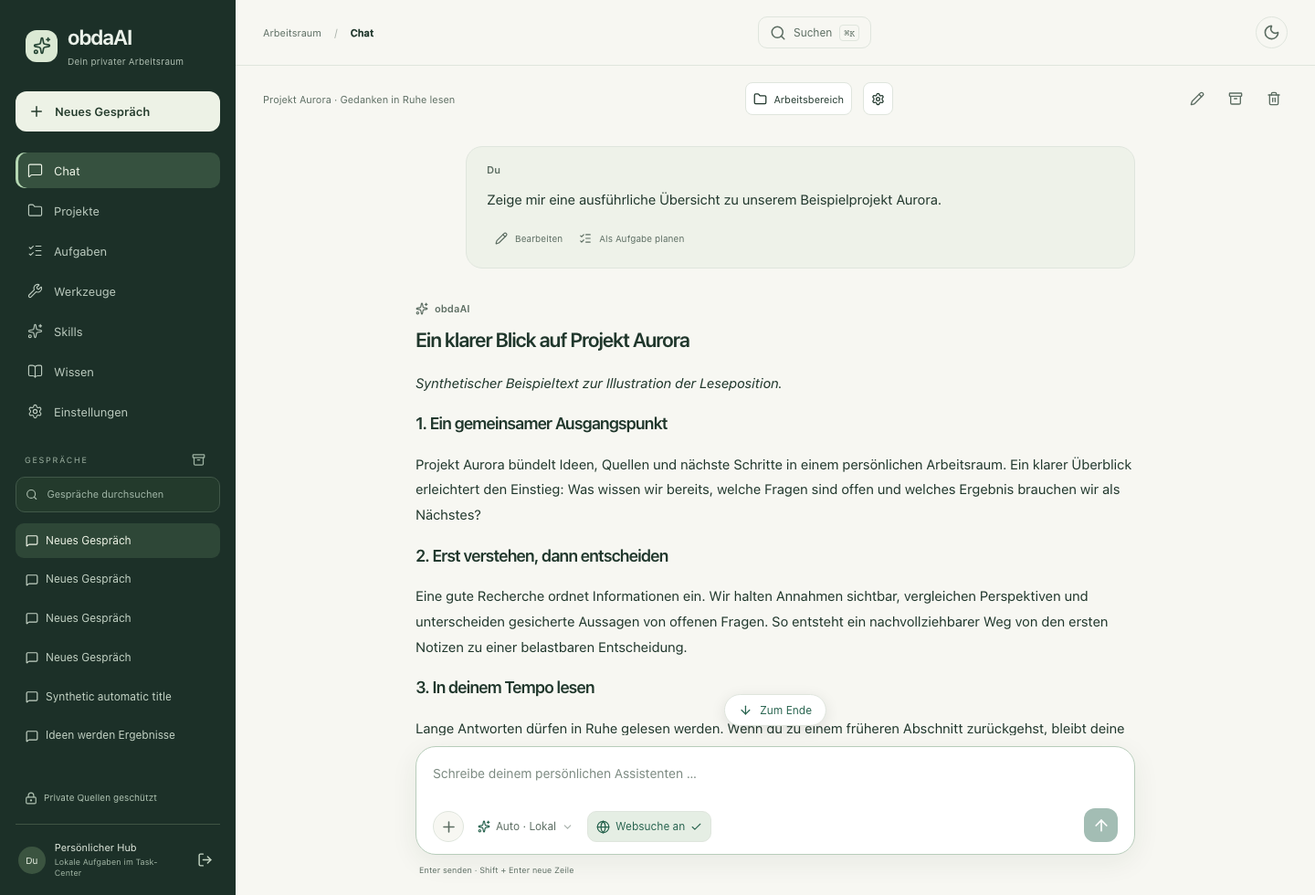
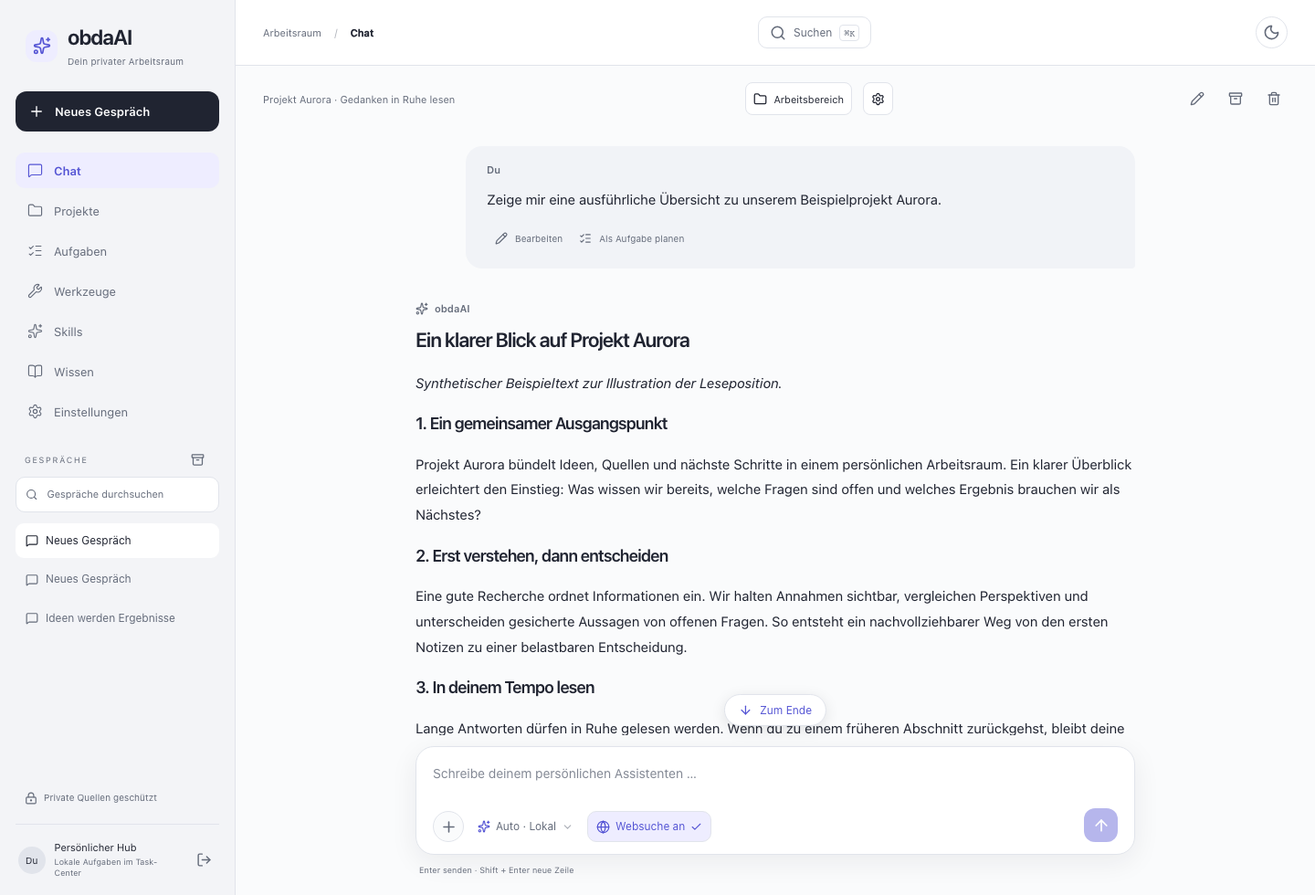
Update project showcase from 52f2b31750f0

Changed region(s): [[0.0, 0.0, 0.1875, 1.0], [0.4375, 0.8878, 0.5625, 0.949], [0.8125, 0.8878, 0.875, 0.949]]

diff --git a/styles.css b/styles.css
@@ -1,9 +1,9 @@
-:root{--ink:#182d2b;--muted:#65726b;--paper:#f8f7f2;--line:#dcded5;--accent:#ec9b79;--sage:#e5eae0;--green:#3e6453;--radius:20px}*{box-sizing:border-box}html{scroll-behavior:smooth;scroll-padding-top:95px}body{margin:0;background:var(--paper);color:var(--ink);font-family:Inter,ui-sans-serif,-apple-system,BlinkMacSystemFont,"Segoe UI",sans-serif;font-size:16px;line-height:1.6}button,input{font:inherit}button,a,input{ -webkit-tap-highlight-color:transparent}a{color:inherit;text-decoration:none}button{cursor:pointer}a:focus-visible,button:focus-visible,input:focus-visible{outline:3px solid #bd5739;outline-offset:5px}img{max-width:100%;height:auto;display:block}h1,h2,h3,p{margin:0}h1,h2,h3{line-height:1.1;letter-spacing:-.055em;font-weight:550}h1{font-size:clamp(58px,6.2vw,90px);line-height:1.01}h2{font-size:clamp(38px,4vw,58px)}h3{font-size:26px;letter-spacing:-.035em}em{font-family:Georgia,"Times New Roman",serif;font-weight:400;color:var(--green)}.wrap{max-width:1280px;margin:auto;padding-left:48px;padding-right:48px}.skip{position:absolute;top:-100px;left:15px;background:var(--ink);color:white;padding:12px;z-index:100}.skip:focus{top:10px}.header{height:90px;display:flex;align-items:center;justify-content:space-between;max-width:1380px;margin:auto;padding:0 48px;border-bottom:1px solid var(--line)}.brand{font-size:28px;font-weight:700;letter-spacing:-1.2px;display:flex;align-items:center;gap:10px;line-height:1}.brand-ai{font-weight:400;margin-left:-10px}.brand-mark{position:relative;width:32px;height:32px;display:inline-flex;align-items:center;font-size:41px;font-weight:650;margin-right:2px}.brand-mark span{font-size:22px;position:absolute;right:-4px;top:-5px;color:#c87755}.header nav{display:flex;gap:32px;font-size:14px}.header nav a:hover{color:#a54f35}.header-cta{border:1px solid var(--line);border-radius:99px;padding:10px 18px;font-size:13px}.header-cta span{margin-left:12px}.hero{display:grid;grid-template-columns:1fr 1.04fr;gap:25px;padding-top:83px;padding-bottom:90px;overflow:hidden}.eyebrow{font-size:10px;letter-spacing:2px;font-weight:750;margin-bottom:26px;display:flex;align-items:center;gap:9px}.status-dot{width:7px;height:7px;border-radius:50%;background:#64876a;display:inline-block}.hero-description{font-size:17px;line-height:1.7;max-width:420px;margin-top:27px;color:#56655c}.hero-actions{display:flex;align-items:center;gap:25px;margin-top:30px}.button{display:inline-flex;align-items:center;justify-content:center;gap:30px;border-radius:99px;padding:14px 22px;font-size:13px;font-weight:600}.primary{background:var(--ink);color:#fff}.primary:hover{background:#35554b}.text-link{border:0;background:transparent;padding:0;font-size:13px;color:var(--ink);text-align:left}.text-link span{margin-left:14px}.hero-note{font-size:11px;display:flex;align-items:center;gap:10px;margin-top:24px;color:var(--muted)}.tiny-icon{font-size:21px}.hero-visual{position:relative;display:flex;align-items:center;justify-content:center;min-width:0;padding:28px 0 36px}.orbit{position:absolute;border-radius:50%;background:#e5e9de;z-index:-1}.orbit-one{width:530px;height:530px;left:5px;top:15px}.orbit-two{width:310px;height:310px;right:-100px;bottom:10px;background:#f2decf}.visual-label{position:absolute;top:2px;left:30px;display:flex;align-items:center;gap:8px;font-size:9px;letter-spacing:1.4px}.app-frame{border:1px solid #d4d9cf;background:white;overflow:hidden;border-radius:12px;box-shadow:0 25px 70px -25px #1b342f30}.window-bar{display:flex;align-items:center;gap:5px;height:30px;background:#f1f3ed;padding:0 12px;border-bottom:1px solid #e1e5db}.window-bar>span{width:5px;height:5px;background:#c0c9ba;border-radius:50%}.window-bar p{font-size:8px;color:#6b7767;text-align:center;flex:1}.window-bar .window-local{width:auto;height:auto;border-radius:3px;font-size:6px;padding:1px 4px;background:#dce7d7;color:#526f4b}.hero-frame{width:650px;max-width:none;flex:none;transform:perspective(1200px) rotateY(-7deg) rotateZ(1deg);margin-left:110px}.hero-frame img{width:650px}.floating-card{position:absolute;bottom:50px;left:4px;display:flex;align-items:center;gap:14px;background:var(--paper);border:1px solid #d6ded0;border-radius:14px;box-shadow:0 16px 32px #1b342f12;padding:17px 22px}.floating-symbol{background:#f2d6c6;border-radius:50%;width:38px;height:38px;display:grid;place-items:center;font-size:23px}.floating-card strong{font-size:13px;display:block}.floating-card div>span{font-size:11px;color:var(--muted);display:block}.visual-caption{position:absolute;bottom:13px;left:50px;font-size:9px;color:var(--muted)}.capability-strip{border-block:1px solid var(--line)}.capability-strip .wrap{min-height:78px;display:flex;align-items:center;gap:25px;font-size:10px;letter-spacing:1.5px;font-weight:650}.strip-plus{color:#98a392;font-size:17px}.strip-end{margin-left:auto;color:var(--muted);font-weight:400;letter-spacing:0;font-size:12px}.intro,.features-section,.status-section{padding-top:100px;padding-bottom:100px}.section-heading{display:flex;justify-content:space-between;gap:50px;align-items:flex-end;margin-bottom:48px}.section-heading>p{max-width:380px;color:var(--muted);font-size:14px;line-height:1.8}.journey{display:grid;grid-template-columns:repeat(3,1fr);gap:20px}.journey article{background:#eef0e8;border:1px solid #e0e4d8;border-radius:var(--radius);padding:28px;display:flex;flex-direction:column;align-items:flex-start}.step{font-size:9px;letter-spacing:1.4px;color:var(--muted)}.journey-icon{font-size:35px;margin:24px 0 18px;color:var(--green)}.journey h3{font-size:23px;max-width:210px}.journey p{font-size:13px;color:var(--muted);margin:16px 0 24px;flex:1}.journey a{font-size:11px;border-top:1px solid #d5dbcf;padding-top:17px;width:100%;display:flex;justify-content:space-between}.gallery-section{background:#e9ede3;border-block:1px solid #dce1d5;padding:85px 0}.gallery-tabs{display:flex;gap:7px;flex-wrap:wrap;margin-bottom:32px}.gallery-tabs button,.filter-tabs button{border:1px solid #d3dacd;background:transparent;color:var(--ink);border-radius:99px;padding:9px 17px;font-size:12px;transition:background .15s}.gallery-tabs button[aria-selected=true],.filter-tabs button[aria-pressed=true]{background:var(--ink);border-color:var(--ink);color:white}.gallery-body{display:grid;grid-template-columns:250px 1fr;gap:40px;align-items:center}.gallery-copy h3{font-size:33px;margin-top:17px}.gallery-copy>p{color:var(--muted);font-size:13px;margin:20px 0 26px}.small-counter{font-size:10px;letter-spacing:2px;color:#7a8978}.screenshot-note{font-size:9px;color:var(--muted);margin-top:20px}.gallery-frame{border-radius:12px}.feature-controls{display:flex;align-items:flex-start;gap:20px;justify-content:space-between}.filter-tabs{display:flex;gap:7px;flex-wrap:wrap;max-width:810px}.filter-tabs button{font-size:11px;padding:8px 13px}.search-box{display:flex;align-items:center;gap:8px;border-bottom:1px solid #adb9a8;min-width:180px;padding:5px 0}.search-box input{width:155px;background:transparent;border:0;padding:4px 0;font-size:12px;color:var(--ink)}.legend{display:flex;gap:20px;flex-wrap:wrap;margin-top:30px;font-size:10px;color:var(--muted)}.legend span{display:flex;align-items:center;gap:6px}.legend i{height:6px;width:6px;border-radius:50%}.legend-live{background:#52735c}.legend-implemented{background:#7b8aa3}.legend-limited{background:#c38b56}.feature-count{font-size:10px;color:var(--muted);margin-top:12px}.feature-group{margin-top:40px}.group-heading{display:flex;align-items:center;gap:15px;margin-bottom:18px}.group-symbol{font-size:22px;background:#e6eade;width:40px;height:40px;display:grid;place-items:center;border-radius:10px}.group-heading h3{font-size:24px}.group-heading p{font-size:12px;color:var(--muted);margin-top:6px}.feature-grid{display:grid;grid-template-columns:repeat(3,1fr);gap:12px}.feature-card{padding:23px;border:1px solid var(--line);border-radius:14px;background:#fffefa}.feature-card h4{font-size:15px;font-weight:600;line-height:1.4;margin:14px 0 10px;letter-spacing:-.3px}.feature-card p{font-size:12px;color:var(--muted);line-height:1.8}.badge{font-size:8px;letter-spacing:.5px;display:inline-flex;align-items:center;gap:5px}.badge:before{content:"";width:5px;height:5px;border-radius:50%;background:currentColor}.badge.live{color:#52735c}.badge.implemented{color:#637997}.badge.limited{color:#996836}.footnote{font-size:11px;color:var(--muted);margin-top:35px;padding-top:20px;border-top:1px solid var(--line)}.empty{padding:35px 0;font-size:15px;color:var(--muted)}.privacy-section{background:var(--ink);color:#e8ebdf;padding:90px 0}.privacy-layout{display:grid;grid-template-columns:1fr 1fr;gap:100px;align-items:center}.privacy-section .eyebrow{color:#b8c8b6}.privacy-section h2{font-size:56px}.privacy-layout>div>p:not(.eyebrow){font-size:14px;color:#b8c8b6;max-width:420px;margin:24px 0}.light{background:#e7ecde;color:var(--ink);margin-top:4px}.principles article{display:flex;gap:25px;border-top:1px solid #456055;padding:26px 0}.principles article>span{font-size:11px;color:#9bb09c;padding-top:3px}.principles h3{font-size:22px;letter-spacing:-.5px}.principles p{font-size:12px;color:#b8c8b6;margin-top:12px}.stats{display:grid;grid-template-columns:repeat(4,1fr);border-block:1px solid var(--line);padding:28px 0;margin-bottom:42px}.stats article{padding-left:25px;border-left:1px solid var(--line)}.stats article:first-child{padding-left:0;border:0}.stats strong{font-size:43px;font-weight:500;line-height:1;letter-spacing:-2px;display:block}.stats span{font-size:10px;color:var(--muted);display:block;margin-top:12px}.status-grid{display:grid;grid-template-columns:1fr 1fr;gap:55px}.release-card{background:#ecefe6;border:1px solid #dde3d5;padding:32px;border-radius:var(--radius)}.pill{font-size:8px;letter-spacing:1px;color:var(--green)}.release-card h3{font-size:37px;margin:21px 0}.release-card p{font-size:13px;color:var(--muted)}dl{font-size:11px;margin:25px 0}dl>div{display:flex;justify-content:space-between;gap:10px;padding:9px 0;border-top:1px solid #d4ddca}dd{margin:0;font-weight:600}dt{color:var(--muted)}.release-card>a{font-size:12px}.release-card small{display:block;font-size:9px;color:var(--muted);margin-top:17px}.roadmap>h3{font-size:26px;margin:10px 0 25px}.roadmap-item{display:flex;gap:16px;padding:16px 0;border-top:1px solid var(--line)}.roadmap-item>span{font-size:10px;color:#9b8c77;margin-top:4px}.roadmap-item h4{font-size:14px;font-weight:600;line-height:1.4;margin:0 0 7px}.roadmap-item p{font-size:12px;line-height:1.7;color:var(--muted)}.maintenance-note{display:flex;gap:17px;align-items:center;margin-top:35px;border:1px solid var(--line);border-radius:12px;padding:18px 23px}.maintenance-note strong{font-size:12px}.maintenance-note p{font-size:11px;color:var(--muted);margin-top:3px}.closing{text-align:center;padding-top:10px;padding-bottom:80px}.closing-mark{font-size:48px;color:#b56e4d}.closing h2{font-size:47px;margin:15px 0 28px}footer{display:flex;align-items:center;justify-content:space-between;gap:20px;border-top:1px solid var(--line);padding-top:25px!important;padding-bottom:25px!important}footer .brand{font-size:23px}footer p,footer>div{font-size:9px;color:var(--muted)}footer>div{display:flex;flex-direction:column;text-align:right}#image-dialog{width:min(96vw,1500px);max-width:none;border:1px solid var(--line);border-radius:18px;padding:18px;background:var(--paper)}#image-dialog::backdrop{background:#0c211cd9}#image-dialog>button{border:0;border-radius:30px;padding:8px 15px;background:var(--ink);color:white;display:block;margin-left:auto;margin-bottom:15px;font-size:12px}#image-dialog p{font-size:10px;color:var(--muted);text-align:center;margin-top:12px}
+:root{--ink:#20232e;--muted:#686d7f;--paper:#fafbfe;--line:#e0e3ec;--accent:#5454d4;--accent-soft:#ededfd;--surface:#f0f2f7;--radius:20px}*{box-sizing:border-box}html{scroll-behavior:smooth;scroll-padding-top:95px}body{margin:0;background:var(--paper);color:var(--ink);font-family:Inter,ui-sans-serif,-apple-system,BlinkMacSystemFont,"Segoe UI",sans-serif;font-size:16px;line-height:1.6}button,input{font:inherit}button,a,input{ -webkit-tap-highlight-color:transparent}a{color:inherit;text-decoration:none}button{cursor:pointer}a:focus-visible,button:focus-visible,input:focus-visible{outline:3px solid var(--accent);outline-offset:5px}img{max-width:100%;height:auto;display:block}h1,h2,h3,p{margin:0}h1,h2,h3{line-height:1.1;letter-spacing:-.055em;font-weight:650}h1{font-size:clamp(58px,6.2vw,90px);line-height:1.01}h2{font-size:clamp(38px,4vw,58px)}h3{font-size:26px;letter-spacing:-.035em}em{font-family:inherit;font-style:normal;font-weight:650;color:var(--accent)}.wrap{max-width:1280px;margin:auto;padding-left:48px;padding-right:48px}.skip{position:absolute;top:-100px;left:15px;background:var(--ink);color:white;padding:12px;z-index:100}.skip:focus{top:10px}.header{height:90px;display:flex;align-items:center;justify-content:space-between;max-width:1380px;margin:auto;padding:0 48px;border-bottom:1px solid var(--line)}.brand{font-size:28px;font-weight:700;letter-spacing:-1.2px;display:flex;align-items:center;gap:10px;line-height:1}.brand-ai{font-weight:400;margin-left:-10px}.brand-mark{position:relative;width:32px;height:32px;display:inline-flex;align-items:center;font-size:41px;font-weight:650;margin-right:2px}.brand-mark span{font-size:22px;position:absolute;right:-4px;top:-5px;color:var(--accent)}.header nav{display:flex;gap:32px;font-size:14px}.header nav a:hover{color:#4141b5}.header-cta{border:1px solid var(--line);border-radius:99px;padding:10px 18px;font-size:13px}.header-cta span{margin-left:12px}.hero{display:grid;grid-template-columns:1fr 1.04fr;gap:25px;padding-top:83px;padding-bottom:90px;overflow:hidden}.eyebrow{font-size:10px;letter-spacing:2px;font-weight:750;margin-bottom:26px;display:flex;align-items:center;gap:9px}.status-dot{width:7px;height:7px;border-radius:50%;background:#64876a;display:inline-block}.hero-description{font-size:17px;line-height:1.7;max-width:420px;margin-top:27px;color:var(--muted)}.hero-actions{display:flex;align-items:center;gap:25px;margin-top:30px}.button{display:inline-flex;align-items:center;justify-content:center;gap:30px;border-radius:99px;padding:14px 22px;font-size:13px;font-weight:600}.primary{background:var(--ink);color:#fff}.primary:hover{background:#393c4b}.text-link{border:0;background:transparent;padding:0;font-size:13px;color:var(--ink);text-align:left}.text-link span{margin-left:14px}.hero-note{font-size:11px;display:flex;align-items:center;gap:10px;margin-top:24px;color:var(--muted)}.tiny-icon{font-size:21px}.hero-visual{position:relative;display:flex;align-items:center;justify-content:center;min-width:0;padding:28px 0 36px}.orbit{position:absolute;border-radius:50%;background:#ededfd;z-index:-1}.orbit-one{width:530px;height:530px;left:5px;top:15px}.orbit-two{width:310px;height:310px;right:-100px;bottom:10px;background:#f0f2f8}.visual-label{position:absolute;top:2px;left:30px;display:flex;align-items:center;gap:8px;font-size:9px;letter-spacing:1.4px}.app-frame{border:1px solid var(--line);background:white;overflow:hidden;border-radius:12px;box-shadow:0 25px 70px -25px #24283b26}.window-bar{display:flex;align-items:center;gap:5px;height:30px;background:#f2f4f8;padding:0 12px;border-bottom:1px solid var(--line)}.window-bar>span{width:5px;height:5px;background:#c5cad7;border-radius:50%}.window-bar p{font-size:8px;color:var(--muted);text-align:center;flex:1}.window-bar .window-local{width:auto;height:auto;border-radius:3px;font-size:6px;padding:1px 4px;background:var(--accent-soft);color:var(--accent)}.hero-frame{width:650px;max-width:none;flex:none;transform:perspective(1200px) rotateY(-7deg) rotateZ(1deg);margin-left:110px}.hero-frame img{width:650px}.floating-card{position:absolute;bottom:50px;left:4px;display:flex;align-items:center;gap:14px;background:var(--paper);border:1px solid var(--line);border-radius:14px;box-shadow:0 16px 32px #24283b12;padding:17px 22px}.floating-symbol{background:var(--accent-soft);border-radius:50%;width:38px;height:38px;display:grid;place-items:center;font-size:23px}.floating-card strong{font-size:13px;display:block}.floating-card div>span{font-size:11px;color:var(--muted);display:block}.visual-caption{position:absolute;bottom:13px;left:50px;font-size:9px;color:var(--muted)}.capability-strip{border-block:1px solid var(--line)}.capability-strip .wrap{min-height:78px;display:flex;align-items:center;gap:25px;font-size:10px;letter-spacing:1.5px;font-weight:650}.strip-plus{color:#989fb2;font-size:17px}.strip-end{margin-left:auto;color:var(--muted);font-weight:400;letter-spacing:0;font-size:12px}.intro,.features-section,.status-section{padding-top:100px;padding-bottom:100px}.section-heading{display:flex;justify-content:space-between;gap:50px;align-items:flex-end;margin-bottom:48px}.section-heading>p{max-width:380px;color:var(--muted);font-size:14px;line-height:1.8}.journey{display:grid;grid-template-columns:repeat(3,1fr);gap:20px}.journey article{background:var(--surface);border:1px solid var(--line);border-radius:var(--radius);padding:28px;display:flex;flex-direction:column;align-items:flex-start}.step{font-size:9px;letter-spacing:1.4px;color:var(--muted)}.journey-icon{font-size:35px;margin:24px 0 18px;color:var(--accent)}.journey h3{font-size:23px;max-width:210px}.journey p{font-size:13px;color:var(--muted);margin:16px 0 24px;flex:1}.journey a{font-size:11px;border-top:1px solid var(--line);padding-top:17px;width:100%;display:flex;justify-content:space-between}.gallery-section{background:#f0f2f7;border-block:1px solid var(--line);padding:85px 0}.gallery-tabs{display:flex;gap:7px;flex-wrap:wrap;margin-bottom:32px}.gallery-tabs button,.filter-tabs button{border:1px solid var(--line);background:transparent;color:var(--ink);border-radius:99px;padding:9px 17px;font-size:12px;transition:background .15s}.gallery-tabs button[aria-selected=true],.filter-tabs button[aria-pressed=true]{background:var(--ink);border-color:var(--ink);color:white}.gallery-body{display:grid;grid-template-columns:250px 1fr;gap:40px;align-items:center}.gallery-copy h3{font-size:33px;margin-top:17px}.gallery-copy>p{color:var(--muted);font-size:13px;margin:20px 0 26px}.small-counter{font-size:10px;letter-spacing:2px;color:var(--muted)}.screenshot-note{font-size:9px;color:var(--muted);margin-top:20px}.gallery-frame{border-radius:12px}.feature-controls{display:flex;align-items:flex-start;gap:20px;justify-content:space-between}.filter-tabs{display:flex;gap:7px;flex-wrap:wrap;max-width:810px}.filter-tabs button{font-size:11px;padding:8px 13px}.search-box{display:flex;align-items:center;gap:8px;border-bottom:1px solid #b4baca;min-width:180px;padding:5px 0}.search-box input{width:155px;background:transparent;border:0;padding:4px 0;font-size:12px;color:var(--ink)}.legend{display:flex;gap:20px;flex-wrap:wrap;margin-top:30px;font-size:10px;color:var(--muted)}.legend span{display:flex;align-items:center;gap:6px}.legend i{height:6px;width:6px;border-radius:50%}.legend-live{background:#52735c}.legend-implemented{background:#787f98}.legend-limited{background:#c38b56}.feature-count{font-size:10px;color:var(--muted);margin-top:12px}.feature-group{margin-top:40px}.group-heading{display:flex;align-items:center;gap:15px;margin-bottom:18px}.group-symbol{font-size:22px;background:var(--accent-soft);width:40px;height:40px;display:grid;place-items:center;border-radius:10px}.group-heading h3{font-size:24px}.group-heading p{font-size:12px;color:var(--muted);margin-top:6px}.feature-grid{display:grid;grid-template-columns:repeat(3,1fr);gap:12px}.feature-card{padding:23px;border:1px solid var(--line);border-radius:14px;background:#ffffff}.feature-card h4{font-size:15px;font-weight:600;line-height:1.4;margin:14px 0 10px;letter-spacing:-.3px}.feature-card p{font-size:12px;color:var(--muted);line-height:1.8}.badge{font-size:8px;letter-spacing:.5px;display:inline-flex;align-items:center;gap:5px}.badge:before{content:"";width:5px;height:5px;border-radius:50%;background:currentColor}.badge.live{color:#52735c}.badge.implemented{color:#626883}.badge.limited{color:#996836}.footnote{font-size:11px;color:var(--muted);margin-top:35px;padding-top:20px;border-top:1px solid var(--line)}.empty{padding:35px 0;font-size:15px;color:var(--muted)}.privacy-section{background:var(--ink);color:#f0f1f8;padding:90px 0}.privacy-layout{display:grid;grid-template-columns:1fr 1fr;gap:100px;align-items:center}.privacy-section .eyebrow{color:#b9bfd2}.privacy-section h2{font-size:56px}.privacy-layout>div>p:not(.eyebrow){font-size:14px;color:#b9bfd2;max-width:420px;margin:24px 0}.light{background:#f0f2fa;color:var(--ink);margin-top:4px}.principles article{display:flex;gap:25px;border-top:1px solid #414657;padding:26px 0}.principles article>span{font-size:11px;color:#a5aec5;padding-top:3px}.principles h3{font-size:22px;letter-spacing:-.5px}.principles p{font-size:12px;color:#b9bfd2;margin-top:12px}.stats{display:grid;grid-template-columns:repeat(4,1fr);border-block:1px solid var(--line);padding:28px 0;margin-bottom:42px}.stats article{padding-left:25px;border-left:1px solid var(--line)}.stats article:first-child{padding-left:0;border:0}.stats strong{font-size:43px;font-weight:500;line-height:1;letter-spacing:-2px;display:block}.stats span{font-size:10px;color:var(--muted);display:block;margin-top:12px}.status-grid{display:grid;grid-template-columns:1fr 1fr;gap:55px}.release-card{background:var(--surface);border:1px solid var(--line);padding:32px;border-radius:var(--radius)}.pill{font-size:8px;letter-spacing:1px;color:var(--accent)}.release-card h3{font-size:37px;margin:21px 0}.release-card p{font-size:13px;color:var(--muted)}dl{font-size:11px;margin:25px 0}dl>div{display:flex;justify-content:space-between;gap:10px;padding:9px 0;border-top:1px solid var(--line)}dd{margin:0;font-weight:600}dt{color:var(--muted)}.release-card>a{font-size:12px}.release-card small{display:block;font-size:9px;color:var(--muted);margin-top:17px}.roadmap>h3{font-size:26px;margin:10px 0 25px}.roadmap-item{display:flex;gap:16px;padding:16px 0;border-top:1px solid var(--line)}.roadmap-item>span{font-size:10px;color:var(--muted);margin-top:4px}.roadmap-item h4{font-size:14px;font-weight:600;line-height:1.4;margin:0 0 7px}.roadmap-item p{font-size:12px;line-height:1.7;color:var(--muted)}.maintenance-note{display:flex;gap:17px;align-items:center;margin-top:35px;border:1px solid var(--line);border-radius:12px;padding:18px 23px}.maintenance-note strong{font-size:12px}.maintenance-note p{font-size:11px;color:var(--muted);margin-top:3px}.closing{text-align:center;padding-top:10px;padding-bottom:80px}.closing-mark{font-size:48px;color:var(--accent)}.closing h2{font-size:47px;margin:15px 0 28px}footer{display:flex;align-items:center;justify-content:space-between;gap:20px;border-top:1px solid var(--line);padding-top:25px!important;padding-bottom:25px!important}footer .brand{font-size:23px}footer p,footer>div{font-size:9px;color:var(--muted)}footer>div{display:flex;flex-direction:column;text-align:right}#image-dialog{width:min(96vw,1500px);max-width:none;border:1px solid var(--line);border-radius:18px;padding:18px;background:var(--paper)}#image-dialog::backdrop{background:#161923d9}#image-dialog>button{border:0;border-radius:30px;padding:8px 15px;background:var(--ink);color:white;display:block;margin-left:auto;margin-bottom:15px;font-size:12px}#image-dialog p{font-size:10px;color:var(--muted);text-align:center;margin-top:12px}
 @media(min-width:1500px){.hero{overflow:visible}.hero-frame{margin-left:45px}}
 @media(max-width:1050px){.wrap{padding-left:30px;padding-right:30px}.header{padding:0 30px}.hero{grid-template-columns:1fr 1fr;padding-top:60px}.hero-frame{width:560px;margin-left:160px}.hero-frame img{width:560px}.hero-actions{gap:15px;flex-wrap:wrap}.hero h1{font-size:66px}.floating-card{bottom:12px;left:0;padding:14px}.visual-caption{bottom:-15px}.strip-end{display:none}.capability-strip .wrap{justify-content:center}.section-heading>p{max-width:320px}.gallery-body{grid-template-columns:210px 1fr;gap:25px}.privacy-layout{gap:50px}.privacy-section h2{font-size:46px}.feature-controls{flex-direction:column}.search-box{min-width:240px}.feature-grid{grid-template-columns:repeat(2,1fr)}.status-grid{gap:28px}}
 @media(max-width:700px){html{scroll-padding-top:20px}.wrap{padding-left:22px;padding-right:22px}.header{height:76px;padding:0 22px}.header nav{gap:18px;font-size:11px}.header nav a:first-child{display:none}.header-cta{display:none}.brand{font-size:25px}.hero{display:block;padding-top:48px;padding-bottom:46px}.hero h1{font-size:65px;letter-spacing:-4px}.hero .eyebrow{font-size:8px;letter-spacing:1.5px}.hero-description{font-size:15px;max-width:340px}.hero-actions{gap:25px}.hero-note{font-size:10px}.hero-visual{height:340px;margin-top:40px;padding:35px 0}.hero-frame{width:440px;transform:rotate(-2deg);margin-left:55px}.hero-frame img{width:440px}.orbit-one{width:330px;height:330px;top:0;left:0}.orbit-two{width:190px;height:190px}.visual-label{font-size:8px;top:0;left:0}.floating-card{bottom:6px;left:0;padding:13px 15px}.floating-card strong{font-size:11px}.floating-card div>span{font-size:9px}.visual-caption{bottom:-19px;left:8px}.capability-strip .wrap{gap:10px;font-size:8px;letter-spacing:1px;min-height:60px}.strip-plus{font-size:12px}.intro,.features-section,.status-section{padding-top:65px;padding-bottom:65px}.eyebrow{font-size:8px;letter-spacing:1.5px;margin-bottom:21px}.section-heading{display:block;margin-bottom:30px}.section-heading>p{margin-top:22px;max-width:100%;font-size:13px}.journey{grid-template-columns:1fr;gap:12px}.journey article{padding:23px;position:relative}.journey-icon{position:absolute;right:22px;top:18px;margin:0}.journey h3{margin-top:25px;max-width:260px}.journey p{max-width:280px;margin:12px 0 20px}.gallery-section{padding:60px 0}.gallery-tabs{gap:6px;margin-bottom:25px}.gallery-tabs button{font-size:10px;padding:8px 13px}.gallery-body{display:flex;flex-direction:column-reverse;gap:25px;align-items:stretch}.gallery-copy h3{font-size:28px;max-width:250px}.gallery-copy>p{margin:13px 0 19px}.gallery-copy .small-counter{font-size:8px}.gallery-frame{border-radius:8px}.screenshot-note{margin-top:13px}.feature-grid{grid-template-columns:1fr}.feature-card{padding:22px}.feature-card h4{font-size:16px}.feature-card p{font-size:13px}.filter-tabs button{font-size:10px;padding:8px 12px}.legend{gap:12px;font-size:9px}.group-heading h3{font-size:23px}.group-heading p{font-size:11px}.group-heading{gap:12px}.privacy-section{padding:60px 0}.privacy-layout{display:block}.privacy-section h2{font-size:44px}.principles{margin-top:40px}.principles article{padding:22px 0}.principles h3{font-size:21px}.stats{grid-template-columns:repeat(2,1fr);gap:28px 20px;padding:25px 0}.stats article{padding:0;border:0}.stats strong{font-size:40px}.stats span{font-size:9px}.status-grid{display:block}.release-card{padding:25px}.release-card h3{font-size:34px}.roadmap{margin-top:35px}.maintenance-note{align-items:flex-start;padding:17px;gap:12px}.closing{padding-bottom:55px}.closing h2{font-size:35px}.closing-mark{font-size:38px}footer{flex-wrap:wrap;gap:15px}footer p{order:3;width:100%;font-size:9px}footer>div{font-size:8px}.header .brand-ai{margin-left:-10px}}
 @media(prefers-reduced-motion:reduce){html{scroll-behavior:auto}*{transition:none!important}}
 
-.mobile-showcase{display:flex;align-items:center;gap:60px;max-width:710px;margin:60px auto 0;border-top:1px solid #d2dbcb;padding-top:45px}.phone-frame{width:174px;flex:none;border:6px solid var(--ink);border-radius:27px;overflow:hidden;box-shadow:0 15px 30px #182d2b15}.mobile-showcase h3{font-size:32px}.mobile-showcase p{font-size:13px;color:var(--muted);margin-top:16px}.mobile-showcase .eyebrow{font-size:9px;margin-bottom:18px}@media(max-width:700px){.mobile-showcase{gap:25px;margin-top:35px;padding-top:30px}.phone-frame{width:130px;border-width:5px;border-radius:22px}.mobile-showcase h3{font-size:25px}.mobile-showcase p{font-size:11px}.mobile-showcase .eyebrow{font-size:7px;letter-spacing:1px}}
+.mobile-showcase{display:flex;align-items:center;gap:60px;max-width:710px;margin:60px auto 0;border-top:1px solid var(--line);padding-top:45px}.phone-frame{width:174px;flex:none;border:6px solid var(--ink);border-radius:27px;overflow:hidden;box-shadow:0 15px 30px #24283b15}.mobile-showcase h3{font-size:32px}.mobile-showcase p{font-size:13px;color:var(--muted);margin-top:16px}.mobile-showcase .eyebrow{font-size:9px;margin-bottom:18px}@media(max-width:700px){.mobile-showcase{gap:25px;margin-top:35px;padding-top:30px}.phone-frame{width:130px;border-width:5px;border-radius:22px}.mobile-showcase h3{font-size:25px}.mobile-showcase p{font-size:11px}.mobile-showcase .eyebrow{font-size:7px;letter-spacing:1px}}
 
-.badge.local{color:#476899}.legend-local{background:#476899}.development-status{margin:0 0 28px;padding:20px 24px;border:1px solid #cdd8cf;background:#edf2e9;border-radius:14px;font-size:13px;color:var(--green)}
+.badge.local{color:#5454b6}.legend-local{background:#5454b6}.development-status{margin:0 0 28px;padding:20px 24px;border:1px solid var(--line);background:var(--surface);border-radius:14px;font-size:13px;color:var(--accent)}

diff --git a/index.html b/index.html
@@ -3,7 +3,7 @@
 <head>
 <meta charset="utf-8"><meta name="viewport" content="width=device-width,initial-scale=1">
 <meta name="description" content="obdaAI – dein selbst gehosteter KI-Arbeitsraum für Gespräche, Wissen, Dateien und kontrollierte Aufgaben. Features, Screenshots und ehrlicher Entwicklungsstand.">
-<meta name="theme-color" content="#182d2b"><meta property="og:title" content="obdaAI · Ideen werden Ergebnisse."><meta property="og:description" content="Ein privater KI-Arbeitsraum. Gespräche, Wissen, Dateien und Aufgaben – mit lokaler Kontrolle.">
+<meta name="theme-color" content="#20232e"><meta property="og:title" content="obdaAI · Ideen werden Ergebnisse."><meta property="og:description" content="Ein privater KI-Arbeitsraum. Gespräche, Wissen, Dateien und Aufgaben – mit lokaler Kontrolle.">
 <title>obdaAI · Ideen werden Ergebnisse.</title><link rel="icon" href="assets/mark.svg" type="image/svg+xml"><link rel="stylesheet" href="styles.css"><script src="app.js" defer></script>
 </head>
 <body>
